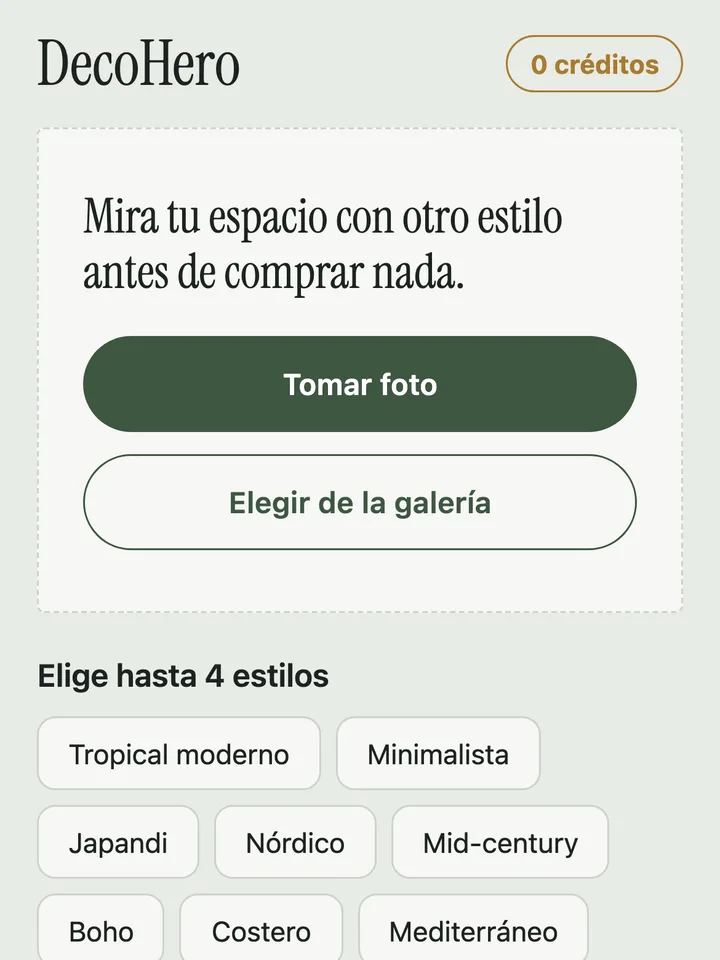
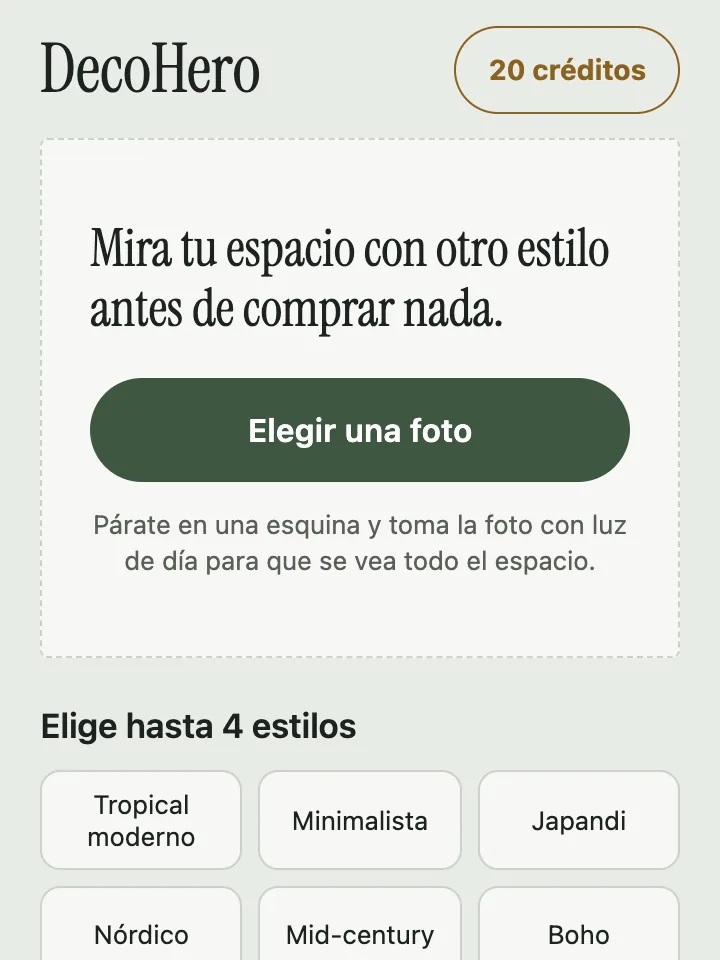
Landing: recapture how-it-works steps 1-2 (20 credits, current home screen) in EN + ES

diff --git a/site/es/index.html b/site/es/index.html
@@ -97,13 +97,13 @@
         <h2>Tres pasos, de la foto al rediseño.</h2>
         <ol class="steps">
           <li class="step reveal">
-            <img src="/img/step-1-es.webp" width="720" height="960" loading="lazy" decoding="async" alt="Pantalla de inicio de DecoHero con los botones Tomar foto y Elegir de la galería sobre la lista de 12 estilos">
+            <img src="/img/step-1-es.webp" width="720" height="960" loading="lazy" decoding="async" alt="Pantalla de inicio de DecoHero con 20 créditos y el botón Elegir una foto sobre la lista de 12 estilos">
             <span class="step-n">01</span>
             <h3>Fotografía el espacio</h3>
             <p>Toma una foto o elige una que ya tengas. Párate en una esquina y toma la foto con luz de día para que se vea todo el espacio.</p>
           </li>
           <li class="step reveal">
-            <img src="/img/step-2-es.webp" width="720" height="960" loading="lazy" decoding="async" alt="DecoHero con la foto de una habitación vacía cargada y tres estilos seleccionados: Tropical moderno, Japandi y Mediterráneo">
+            <img src="/img/step-2-es.webp" width="720" height="960" loading="lazy" decoding="async" alt="DecoHero con la foto de una sala cargada y tres estilos seleccionados: Tropical moderno, Japandi y Mediterráneo">
             <span class="step-n">02</span>
             <h3>Elige hasta cuatro estilos</h3>
             <p>Elige entre 12 estilos de interiorismo. Cada estilo que eliges usa un crédito y te da un diseño.</p>

diff --git a/site/index.html b/site/index.html
@@ -97,13 +97,13 @@
         <h2>Three steps from photo to redesign.</h2>
         <ol class="steps">
           <li class="step reveal">
-            <img src="/img/step-1-en.webp" width="720" height="960" loading="lazy" decoding="async" alt="DecoHero home screen with the buttons Take a photo and Choose from gallery above the list of 12 styles">
+            <img src="/img/step-1-en.webp" width="720" height="960" loading="lazy" decoding="async" alt="DecoHero home screen with 20 credits and the Choose a photo button above the list of 12 styles">
             <span class="step-n">01</span>
             <h3>Photograph the room</h3>
             <p>Take a photo or choose one you already have. Stand in a corner and shoot in daylight so the whole room is in frame.</p>
           </li>
           <li class="step reveal">
-            <img src="/img/step-2-en.webp" width="720" height="960" loading="lazy" decoding="async" alt="DecoHero with a photo of an empty room loaded and three styles selected: Tropical modern, Japandi and Mediterranean">
+            <img src="/img/step-2-en.webp" width="720" height="960" loading="lazy" decoding="async" alt="DecoHero with a photo of a living room loaded and three styles selected: Tropical modern, Japandi and Mediterranean">
             <span class="step-n">02</span>
             <h3>Pick up to four styles</h3>
             <p>Choose from 12 interior styles. Each style you pick uses one credit and gives you one design.</p>
